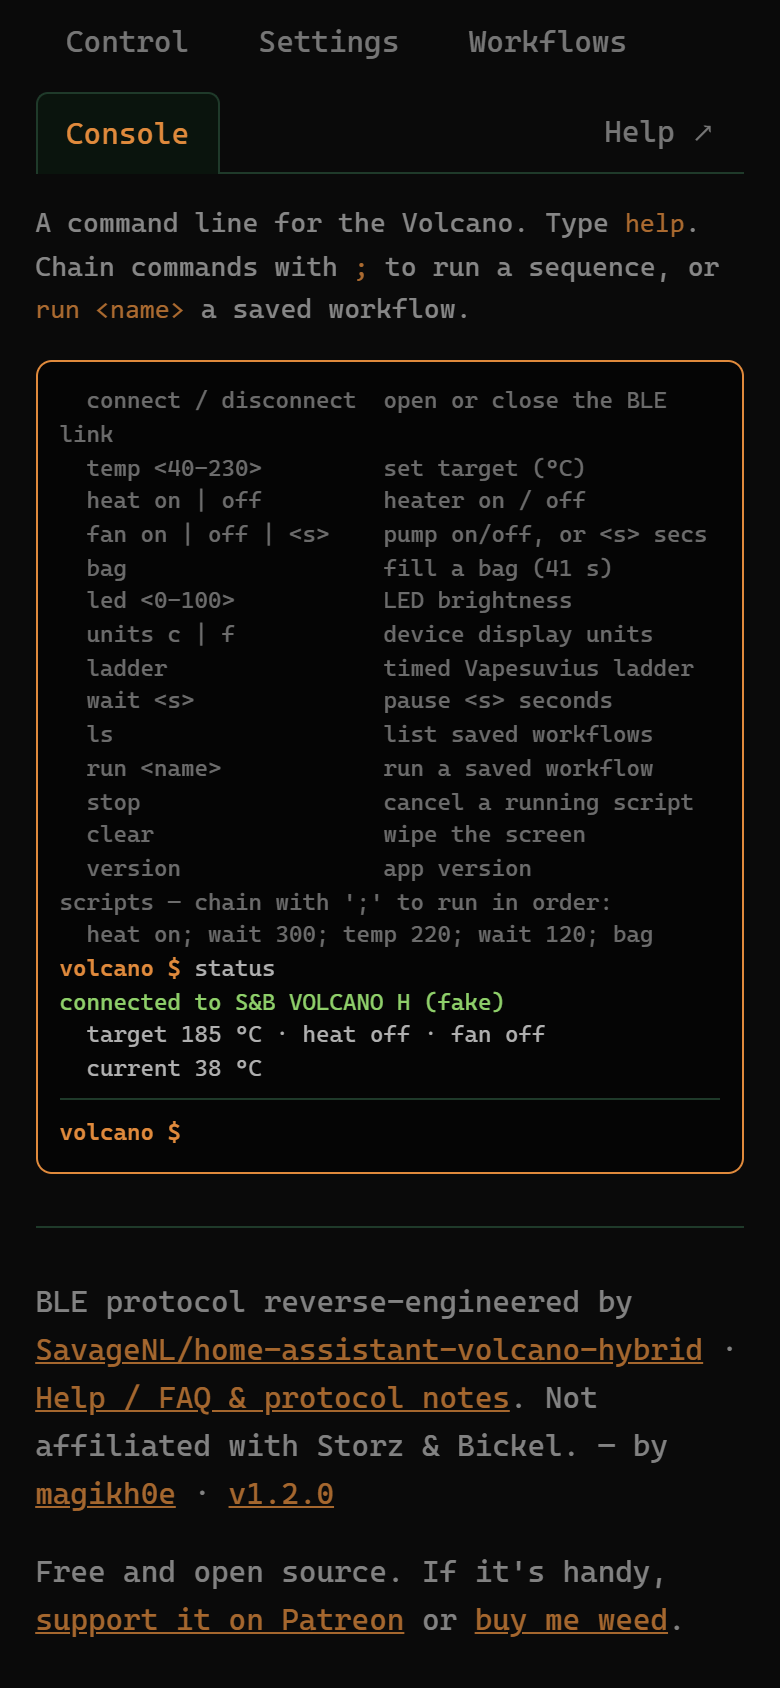
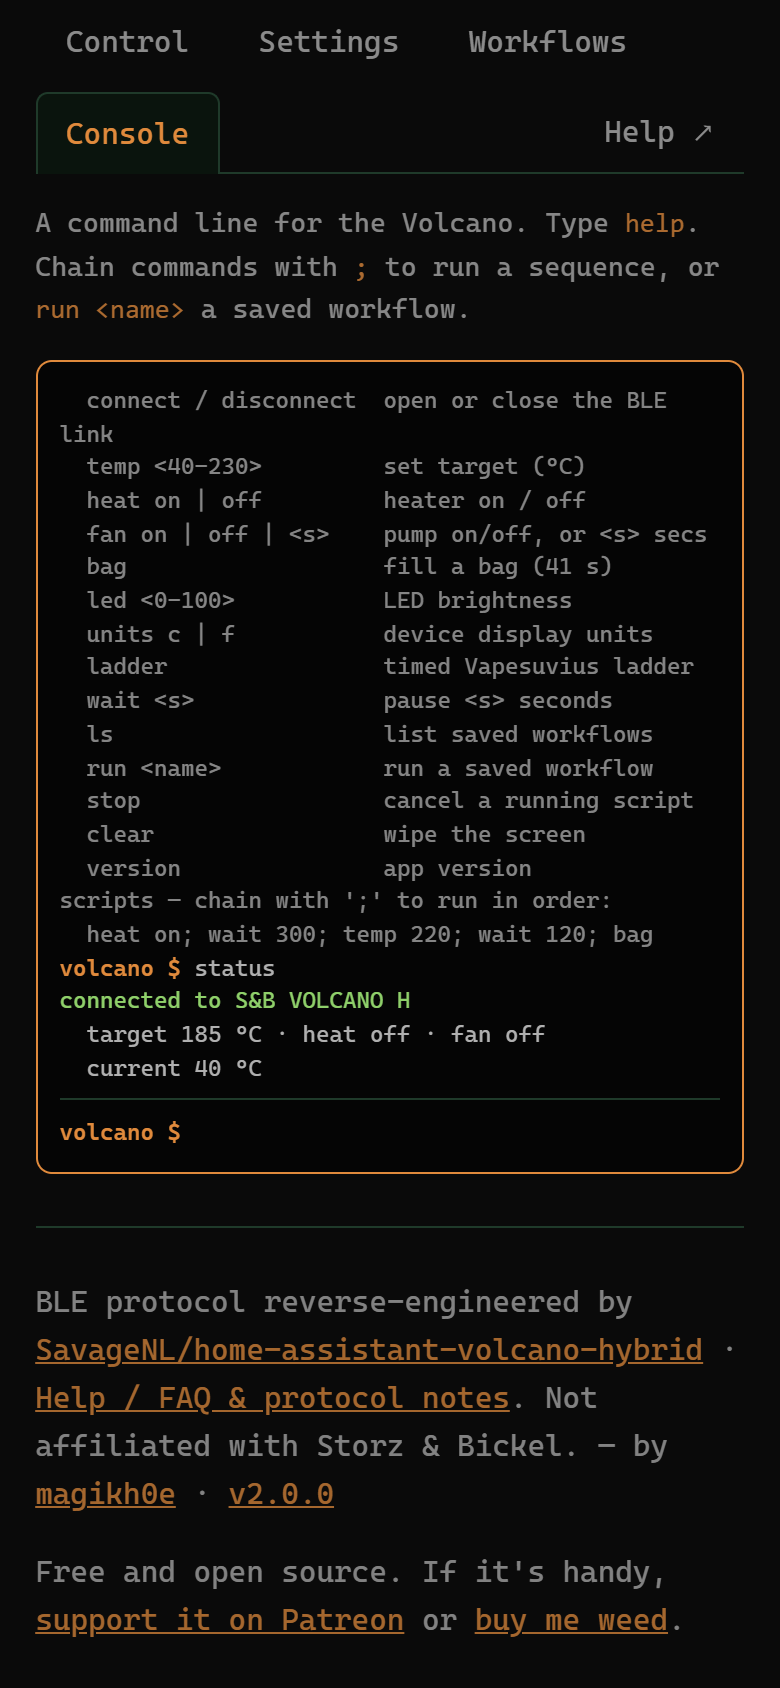
Release 2.1.0
- End-of-session summary bar with "Add a note", opening that session's
  note in the history; Undo and summary bars stack, on real-time timers
- New screenshots (graph, history with notes, Phosphor theme) in the
  README and the manifest
- Smoke test covers the summary

diff --git a/volcano-ble.js b/volcano-ble.js
@@ -20,6 +20,9 @@
   // and ?fake=50 runs the app's timers 50x. The app starts once the simulator is in.
   const DEMO = /[?&]demo\b/.test(location.search);
   const FAKE = DEMO || (/^(localhost|127\.0\.0\.1|\[::1\])$/.test(location.hostname) && /[?&]fake\b/.test(location.search));
+  // Bars at the bottom of the screen time out in real time, even when ?fake=N
+  // speeds up the app's other timers (this runs before the simulator loads).
+  const uiTimeout = window.setTimeout.bind(window);
   const fakeReady = !FAKE ? Promise.resolve() : new Promise((done) => {
     const s = document.createElement("script");
     s.src = "demo-volcano.js";
@@ -651,6 +654,12 @@
   // instead of asking first. A newer delete replaces the older one's Undo.
   const UNDO_MS = 8000;
   let undoFn = null, undoTimer = 0;
+  // Bars at the bottom of the screen (Undo, session summary) stack in one place.
+  function toastStack() {
+    let box = $("v-toasts");
+    if (!box) { box = el("div", { id: "v-toasts", class: "v-toasts" }); document.body.append(box); }
+    return box;
+  }
   function undoable(msg, undo) {
     let bar = $("v-undo");
     if (!bar) {
@@ -658,13 +667,50 @@
         el("span", { class: "v-undo-text" }),
         el("button", { class: "v-btn", type: "button", onClick: undoNow }, "Undo"),
         el("button", { class: "v-mini", type: "button", title: "Dismiss", onClick: undoDone }, "✕"));
-      document.body.append(bar);
+      toastStack().append(bar);
     }
     bar.querySelector(".v-undo-text").textContent = msg;
     bar.hidden = false;
     undoFn = undo;
     clearTimeout(undoTimer);
-    undoTimer = setTimeout(undoDone, UNDO_MS);
+    undoTimer = uiTimeout(undoDone, UNDO_MS);
+  }
+
+  // When a session ends: what it did, and a shortcut to note how it went.
+  const DONE_MS = 30000;
+  let doneTimer = 0;
+  function sessionDone(h) {
+    let bar = $("v-done");
+    if (!bar) {
+      bar = el("div", { id: "v-done", class: "v-undo v-done", role: "status" },
+        el("span", { class: "v-undo-text" }),
+        el("button", { class: "v-btn v-done-note", type: "button" }, "✎ Add a note"),
+        el("button", { class: "v-mini", type: "button", title: "Dismiss", onClick: doneHide }, "✕"));
+      toastStack().append(bar);
+    }
+    const stopped = h.outcome !== "complete";
+    bar.querySelector(".v-undo-text").textContent = (stopped ? "Stopped: " : "Done: ") + h.name + " · " +
+      (h.bags ? plural(h.bags, "bag") + " in " : "") + fmtDur(h.secs || 0) + ".";
+    bar.querySelector(".v-done-note").onclick = () => { doneHide(); histNoteAt(h); };
+    bar.hidden = false;
+    clearTimeout(doneTimer);
+    // Out of sight (another app, screen off): start counting once it's back on screen.
+    const arm = () => { doneTimer = uiTimeout(doneHide, DONE_MS); };
+    if (document.visibilityState === "visible") arm();
+    else document.addEventListener("visibilitychange", function once() {
+      if (document.visibilityState !== "visible") return;
+      document.removeEventListener("visibilitychange", once); arm();
+    });
+  }
+  function doneHide() { clearTimeout(doneTimer); const bar = $("v-done"); if (bar) bar.hidden = true; }
+  // Open a history row's note editor: Workflows tab, history open, row in view.
+  function histNoteAt(h) {
+    const tab = document.querySelector('.v-tab[data-tab="workflows"]');
+    if (tab) tab.click();
+    histOpen = true; histNoteOpen = histKey(h);
+    renderWorkflows();
+    const input = document.querySelector(".v-hist-notein");
+    if (input) { input.scrollIntoView({ block: "center" }); input.focus(); }
   }
   function undoDone() {
     undoFn = null; clearTimeout(undoTimer);
@@ -1640,8 +1686,10 @@
       wfKeepAwake(false);
       clearInterval(sessTimer);
       document.title = BASE_TITLE;
-      histAdd({ name: wfRunName, started: new Date(runStarted).toISOString(),
-        secs: Math.round((Date.now() - runStarted) / 1000), bags: runBags, outcome: runOutcome, src: runSrc });
+      const entry = { name: wfRunName, started: new Date(runStarted).toISOString(),
+        secs: Math.round((Date.now() - runStarted) / 1000), bags: runBags, outcome: runOutcome, src: runSrc };
+      histAdd(entry);
+      if (runOutcome !== "error") sessionDone(sessLog[0] === entry ? entry : sessLog.find((x) => histKey(x) === histKey(entry)) || entry);
       wfRunning = false; wfRunId = null;
       document.body.classList.remove("v-running");
       if (svc && !pollTimer) pollTimer = setInterval(pollStatus, 2000);   // resume polling

diff --git a/help.html b/help.html
@@ -202,7 +202,7 @@
   </details>
   <details id="faq-is-there-a-history-of-my-sessions">
     <summary>Is there a history of my sessions?</summary>
-    <p>Yes. On the Workflows tab, <strong>&#128220; Session history</strong> lists each workflow or template you've run: when, how long, how many bags, and whether it finished, was stopped or hit an error. <strong>&#9998;</strong> on a row adds a note and a 1&ndash;5 star rating (the strain, how it hit), kept with the entry and in backups. <strong>&#8635;</strong> on a row runs that session again (the saved workflow, the template in the same mode, or the ladder you built). It's stored in this browser (the latest 200) and included in <strong>&#10515; Backup</strong>. To tweak a saved workflow without losing the original, use <strong>&#10697;</strong> on its card to duplicate it. <strong>&#9650;</strong> and <strong>&#9660;</strong> move a saved workflow up or down, which also sets its place in the dropdown under the drawing.</p>
+    <p>Yes. On the Workflows tab, <strong>&#128220; Session history</strong> lists each workflow or template you've run: when, how long, how many bags, and whether it finished, was stopped or hit an error. <strong>&#9998;</strong> on a row adds a note and a 1&ndash;5 star rating (the strain, how it hit), kept with the entry and in backups. When a session ends, a bar at the bottom sums it up (&ldquo;Done: &hellip; 3 bags in 12:40&rdquo;) with <strong>&#9998; Add a note</strong>, which opens that entry's note. <strong>&#8635;</strong> on a row runs that session again (the saved workflow, the template in the same mode, or the ladder you built). It's stored in this browser (the latest 200) and included in <strong>&#10515; Backup</strong>. To tweak a saved workflow without losing the original, use <strong>&#10697;</strong> on its card to duplicate it. <strong>&#9650;</strong> and <strong>&#9660;</strong> move a saved workflow up or down, which also sets its place in the dropdown under the drawing.</p>
   </details>
   <details id="faq-i-deleted-something-by-mistake">
     <summary>I deleted something by mistake</summary>

diff --git a/volcano.css b/volcano.css
@@ -579,10 +579,14 @@ body:not(.v-connected) .v-session-line { display: none; }
 @media (max-width: 640px) { .v-toc { grid-template-columns: 1fr; } }
 :target { scroll-margin-top: 1rem; }
 
-/* Undo bar after a delete */
-.v-undo {
+/* Bars at the bottom: Undo after a delete, the session summary */
+.v-toasts {
   position: fixed; left: 50%; bottom: 1rem; transform: translateX(-50%); z-index: 50;
-  display: flex; align-items: center; gap: 0.7rem; max-width: calc(100vw - 2rem);
+  display: flex; flex-direction: column; align-items: center; gap: 0.5rem;
+  width: max-content; max-width: calc(100vw - 2rem);
+}
+.v-undo {
+  display: flex; align-items: center; gap: 0.7rem; max-width: 100%;
   padding: 0.5rem 0.6rem 0.5rem 0.9rem;
   background: var(--panel); color: var(--text);
   border: 1px solid var(--accent); border-radius: 8px;

diff --git a/version.js b/version.js
@@ -2,7 +2,7 @@
 // element (the title badge and footer link). Bump it with a CHANGELOG.md entry on
 // each release; see deploy/README.md.
 
-var VOLCANO_APP_VERSION = "2.0.0";
+var VOLCANO_APP_VERSION = "2.1.0";
 var VOLCANO_CHANGELOG_URL = "https://github.com/magikh0e/volcano-hybrid-control/blob/main/CHANGELOG.md";
 
 document.addEventListener("DOMContentLoaded", function () {

diff --git a/service-worker.js b/service-worker.js
@@ -5,7 +5,7 @@
 // only the UI is cached, not the BLE session). Bump CACHE on any asset change
 // to invalidate the old shell.
 
-const CACHE = "volcano-hybrid-control-v61";
+const CACHE = "volcano-hybrid-control-v62";
 const ASSETS = [
   "./",
   "./index.html",

diff --git a/tools/smoke.py b/tools/smoke.py
@@ -28,7 +28,8 @@ Checks:
   - ▲ / ▼ reorder saved workflows, keeping focus on the moved card
   - the demo (?demo) connects to "Demo Volcano" and keeps its data out of
     the real storage
-  - the temperature graph draws; a history note and rating save and back up
+  - the temperature graph draws; the end-of-session summary opens the note
+    editor, and a note and rating save and back up
   - keyboard shortcuts H and + drive the heater and target; preset labels show
   - a Help contents link opens its FAQ entry
   - in the background, notifications say fit a bag, bag full, complete
@@ -176,9 +177,12 @@ class Smoke:
         self.check(first.startswith("★ Favourites: Quick Bag 185 °C"), f"starred template leads the drawing's list ({first})")
         self.check("(1)" in page.text_content(".v-wf-filters button:has-text('Favourites')"), "Favourites filter counts it")
 
-        # A note and rating on the history row
-        page.evaluate("document.querySelector('.v-wf-history').open = true")
-        page.click(".v-hist-row .v-hist-notebtn")
+        # The end-of-session summary leads to a note and rating on that history row
+        done = page.text_content("#v-done .v-undo-text") if page.is_visible("#v-done") else "no summary bar"
+        self.check(done.startswith("Done: Quick Bag 185 °C · 1 bag in"), f"session summary: {done}")
+        page.click("#v-done .v-done-note")
+        self.check(page.evaluate("document.activeElement.classList.contains('v-hist-notein')"),
+                   "Add a note opens that session's note editor")
         page.click(".v-hist-noteedit .v-hist-star:nth-child(4)")
         page.fill(".v-hist-notein", "Blue Dream")
         page.click(".v-hist-noteedit .v-btn")

diff --git a/README.md b/README.md
@@ -15,15 +15,20 @@ framework, no dependencies; installable as a PWA and works offline.
 installable app. No Volcano to hand? [**Try the demo**](https://volcano.magikh0e.pl/?demo), which
 runs against a simulated one in any browser.
 
-A session in progress on a laptop, with the drawing filling a bag on the left and the
-template library on the right:
+A session in progress on a laptop: the drawing filling a bag, the temperature graph of the
+climb under it, and the template library on the right:
 
-<img src="assets/screenshots/session-wide.png" alt="Wide layout: the interactive Volcano drawing filling a bag (FILL 0:25 on its screen) beside the Workflows tab, with the running banner and template list" width="820">
+<img src="assets/screenshots/session-wide.png" alt="Wide layout: the Volcano drawing filling a bag (FILL 0:14 on its screen) with a temperature graph below, beside the Workflows tab with the running banner and template list" width="820">
 
-Settings with the theme picker, a whip session on a phone, and the console:
+Session history with notes and ratings, and the summary that offers to add one when a session
+ends:
 
-<img src="assets/screenshots/settings-wide.png" alt="Settings: device options, theme picker (Amber, Phosphor, Ice, Neon, Light, High contrast), app units and install" width="520">
-<img src="assets/screenshots/control-narrow.png" alt="Phone: the Volcano drawing with a whip hose, vapor flowing, heating to 180 °C" width="200">
+<img src="assets/screenshots/history-wide.png" alt="Session history: five sessions with times, bags and outcomes, three with star ratings and notes, and a 'Done: Quick Bag 185 °C · 1 bag in 0:40' bar with Add a note" width="820">
+
+Settings with the theme picker (Phosphor here), a whip session on a phone, and the console:
+
+<img src="assets/screenshots/settings-wide.png" alt="Settings in the Phosphor theme: device options, theme picker (Amber, Phosphor, Ice, Neon, Light, High contrast), app units and install" width="520">
+<img src="assets/screenshots/control-narrow.png" alt="Phone: the Volcano drawing with a whip hose, vapor flowing, heating to 180 °C, and the temperature graph" width="200">
 <img src="assets/screenshots/console-narrow.png" alt="Phone: the console listing its commands and a status readout" width="200">
 
 ---

diff --git a/CHANGELOG.md b/CHANGELOG.md
@@ -9,6 +9,19 @@ and polish. The version shown in the app and on the Help page comes from `versio
 
 ## [Unreleased]
 
+## [2.1.0] - 2026-10-04
+
+### Added
+
+- When a session ends (or is stopped), a bar at the bottom sums it up, for example "Done: Quick
+  Bag 185 °C · 1 bag in 0:40.", with "✎ Add a note", which opens that session's note in the
+  history.
+
+### Changed
+
+- New screenshots in the README and the install dialog, showing the temperature graph, session
+  history with notes, and the Phosphor theme.
+
 ## [2.0.0] - 2026-10-04
 
 ### Added
@@ -226,7 +239,8 @@ and polish. The version shown in the app and on the Help page comes from `versio
 - Help page with FAQ, a boiling-point temperature guide and BLE protocol notes.
 - Installable as an offline PWA; hosted on its own subdomain.
 
-[Unreleased]: https://github.com/magikh0e/volcano-hybrid-control/compare/v2.0.0...HEAD
+[Unreleased]: https://github.com/magikh0e/volcano-hybrid-control/compare/v2.1.0...HEAD
+[2.1.0]: https://github.com/magikh0e/volcano-hybrid-control/compare/v2.0.0...v2.1.0
 [2.0.0]: https://github.com/magikh0e/volcano-hybrid-control/compare/v1.9.0...v2.0.0
 [1.9.0]: https://github.com/magikh0e/volcano-hybrid-control/compare/v1.8.0...v1.9.0
 [1.8.0]: https://github.com/magikh0e/volcano-hybrid-control/compare/v1.7.0...v1.8.0
